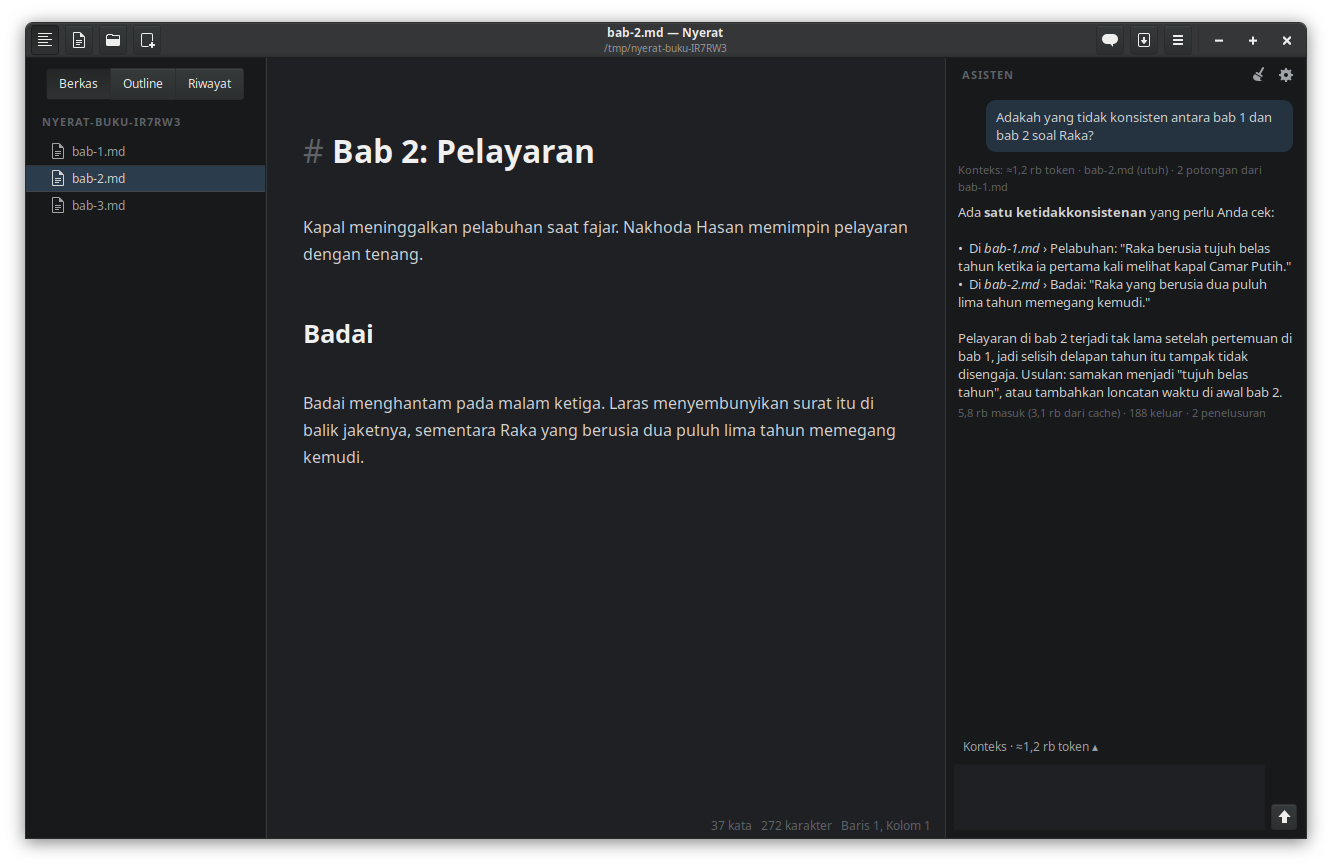
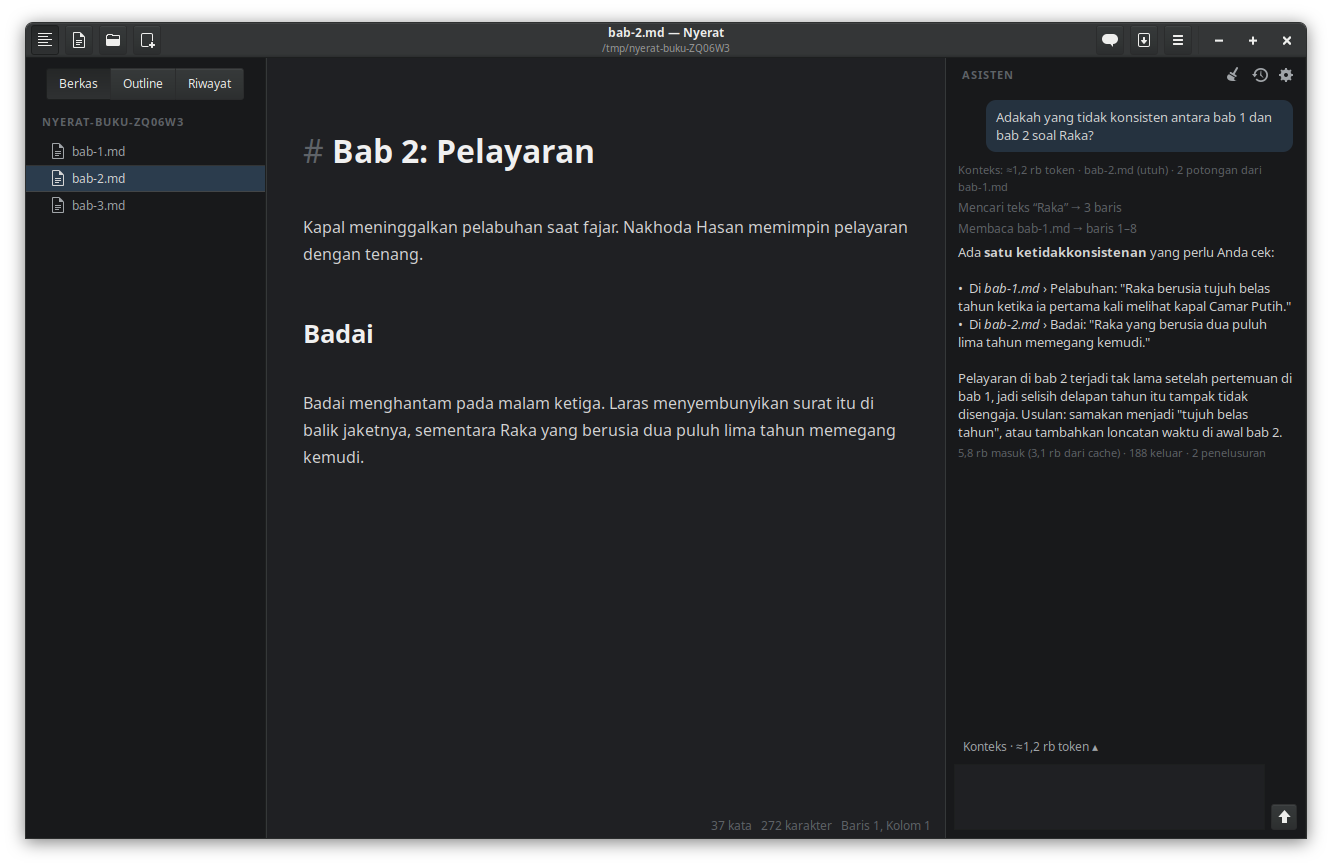
Regenerasi screenshot dan GIF landing page, tambah gambar tab dan riwayat percakapan, dan perbaiki label penelusuran yang tertinggal saat percakapan baru

diff --git a/scripts/capture.ts b/scripts/capture.ts
@@ -16,6 +16,7 @@ import { DEFAULTS } from '../src/settings.js';
 import { MainWindow } from '../src/window.js';
 import { isKanban, moveCard, parseBoard } from '../src/markdown/kanban.js';
 import type { Provider } from '../src/agent/provider.js';
+import { listChats, saveChat } from '../src/agent/chatstore.js';
 
 // Naskah contoh untuk tangkapan panel Asisten (provider palsu; tanpa jaringan dan tanpa API key).
 const BOOK = {
@@ -488,6 +489,64 @@ function main(app: Gtk.Application): void {
         Gdk.pixbuf_get_from_window(zw, 0, 0, zw.get_width(), zw.get_height())!.savev(`${OUT}/zoom-gambar.png`, 'png', [], []);
         zoomWin.destroy();
     }
+
+    // ───────── Tab dokumen ─────────
+    w.setOption('sidebar', true);
+    w.sidebar.setPage('files');
+    w.openFolder(proj, false);
+    w.file = null;
+    ed.setText('');
+    w.setOption('autosave', false);   // supaya tanda • (belum disimpan) tampil di tab
+    for (const rel of ['naskah/bab-1.md', 'naskah/bab-2.md', 'tokoh/raka.md', 'riset/pelabuhan.md']) w.openFile(GLib.build_filenamev([proj, ...rel.split('/')]));
+    w.switchTab(-2);   // bab-2 aktif
+    w.editor.buffer.place_cursor(w.editor.buffer.get_end_iter());
+    w.editor.buffer.insert_at_cursor('\nRaka menatap layar yang robek diterpa angin.', -1);
+    w.editor.view.scroll_to_iter(w.editor.buffer.get_start_iter(), 0, false, 0, 0);
+    idle(600);
+    shot('tab');
+    // Bersihkan: simpan perubahan lalu tutup tab, kembali ke satu dokumen.
+    w.editor.buffer.set_modified(false);
+    w.setOption('autosave', true);
+    while (w.documentCount > 1) w.closeTab();
+    w.file = null;
+    ed.setText('');
+
+    // ───────── Riwayat percakapan ─────────
+    const earlier: [string, string, string, string][] = [
+        ['2026-10-02T21:05:00', 'Ide akhir bab 3 yang lebih mengejutkan', 'Ide akhir bab 3 yang lebih mengejutkan', 'Coba biarkan surat dari ayah Laras ternyata kosong: yang ia lindungi selama ini hanyalah harapan.'],
+        ['2026-10-03T08:40:00', 'Samakan gaya narasi bab 2 dengan bab 1', 'Samakan gaya narasi bab 2 dengan bab 1', 'Bab 1 memakai kalimat pendek dan sudut pandang Raka; bab 2 sebaiknya begitu juga.'],
+    ];
+    // Buang percakapan hasil adegan Asisten di atas supaya daftarnya hanya berisi contoh ini.
+    for (const old of listChats(bookDir)) GLib.unlink(old.path);
+    for (const [created, title, q, a] of earlier) saveChat(bookDir, { title, model: 'deepseek-flash', created, turns: [{ role: 'user', content: q }, { role: 'assistant', content: a }] }, null);
+    w.openFolder(bookDir, false);
+    w.load(GLib.build_filenamev([bookDir, 'bab-2.md']));
+    w.setOption('sidebar', true);
+    w.sidebar.setPage('files');
+    w.setOption('chat', true);
+    w.chat.reset();
+    void w.chat.ask('Adakah yang tidak konsisten antara bab 1 dan bab 2 soal Raka?');
+    idle(1500);
+    const popover = w.chat.historyButton.get_popover()!;
+    for (const dark of [false, true]) {
+        w.setDark(dark);
+        popover.popup();
+        idle(500);
+        const main = grab();
+        const pw = popover.get_window();
+        if (pw) {
+            const [, mx, my] = w.win.get_window()!.get_origin();
+            const [, px, py] = pw.get_origin();
+            const pop = Gdk.pixbuf_get_from_window(pw, 0, 0, pw.get_width(), pw.get_height())!;
+            const x = px - mx, y = py - my;
+            pop.composite(main, x, y, pop.get_width(), pop.get_height(), x, y, 1, 1, GdkPixbuf.InterpType.NEAREST, 255);
+        }
+        main.savev(`${OUT}/riwayat-percakapan${dark ? '-gelap' : ''}.png`, 'png', [], []);
+        popover.popdown();
+        idle(200);
+    }
+    w.setDark(false);
+    w.setOption('chat', false);
 
     finishGifs();
     print(`Selesai: ${OUT}`);

diff --git a/docs/index.html b/docs/index.html
@@ -322,6 +322,9 @@ footer a { color: var(--muted); }
       <figure class="shot"><img src="assets/kanban-gelap.png" width="1332" height="867" loading="lazy" alt="Papan kanban dalam mode gelap"><figcaption>Papan kanban, mode gelap</figcaption></figure>
       <figure class="shot"><img src="assets/asisten-terang.png" width="1332" height="867" loading="lazy" alt="Panel Asisten di sisi kanan berisi pertanyaan, langkah penelusuran, dan jawaban"><figcaption>Panel Asisten, mode terang</figcaption></figure>
       <figure class="shot"><img src="assets/asisten-gelap.png" width="1332" height="867" loading="lazy" alt="Panel Asisten dalam mode gelap"><figcaption>Panel Asisten, mode gelap</figcaption></figure>
+      <figure class="shot"><img src="assets/riwayat-percakapan.png" width="1332" height="867" loading="lazy" alt="Panel Asisten dengan daftar percakapan sebelumnya yang tersimpan di folder naskah"><figcaption>Riwayat percakapan per folder, mode terang</figcaption></figure>
+      <figure class="shot"><img src="assets/riwayat-percakapan-gelap.png" width="1332" height="867" loading="lazy" alt="Daftar percakapan sebelumnya di panel Asisten, mode gelap"><figcaption>Riwayat percakapan per folder, mode gelap</figcaption></figure>
+      <figure class="shot"><img src="assets/tab.png" width="1332" height="867" loading="lazy" alt="Empat dokumen terbuka sebagai tab, satu bertanda belum disimpan"><figcaption>Banyak dokumen sebagai tab dalam satu jendela</figcaption></figure>
       <figure class="shot"><img src="assets/berkas.png" width="1332" height="867" loading="lazy" alt="Tab Berkas menampilkan pohon folder naskah, riset, dan tokoh"><figcaption>Pohon berkas dengan folder dan file Markdown</figcaption></figure>
       <figure class="shot"><img src="assets/riwayat-diff.png" width="912" height="705" loading="lazy" alt="Jendela diff sebuah commit dengan baris tambah dan hapus berwarna"><figcaption>Diff sebuah commit</figcaption></figure>
       <figure class="shot"><img src="assets/zoom-gambar.png" width="812" height="487" loading="lazy" alt="Penampil gambar dengan tombol zoom, pas layar, dan 100 persen"><figcaption>Penampil gambar dengan zoom</figcaption></figure>

diff --git a/src/ui/chat.ts b/src/ui/chat.ts
@@ -282,6 +282,7 @@ export class ChatPanel {
         this.stop();
         this.session.clear();
         this.chatPath = null;
+        this.stepLabels.clear();   // labelnya ikut dibuang di bawah; id alat yang sama tidak boleh memakainya lagi
         this.bubbles.length = 0;
         for (const child of this.messages.get_children()) if (child !== this.empty) this.messages.remove(child);
         this.empty.show();
